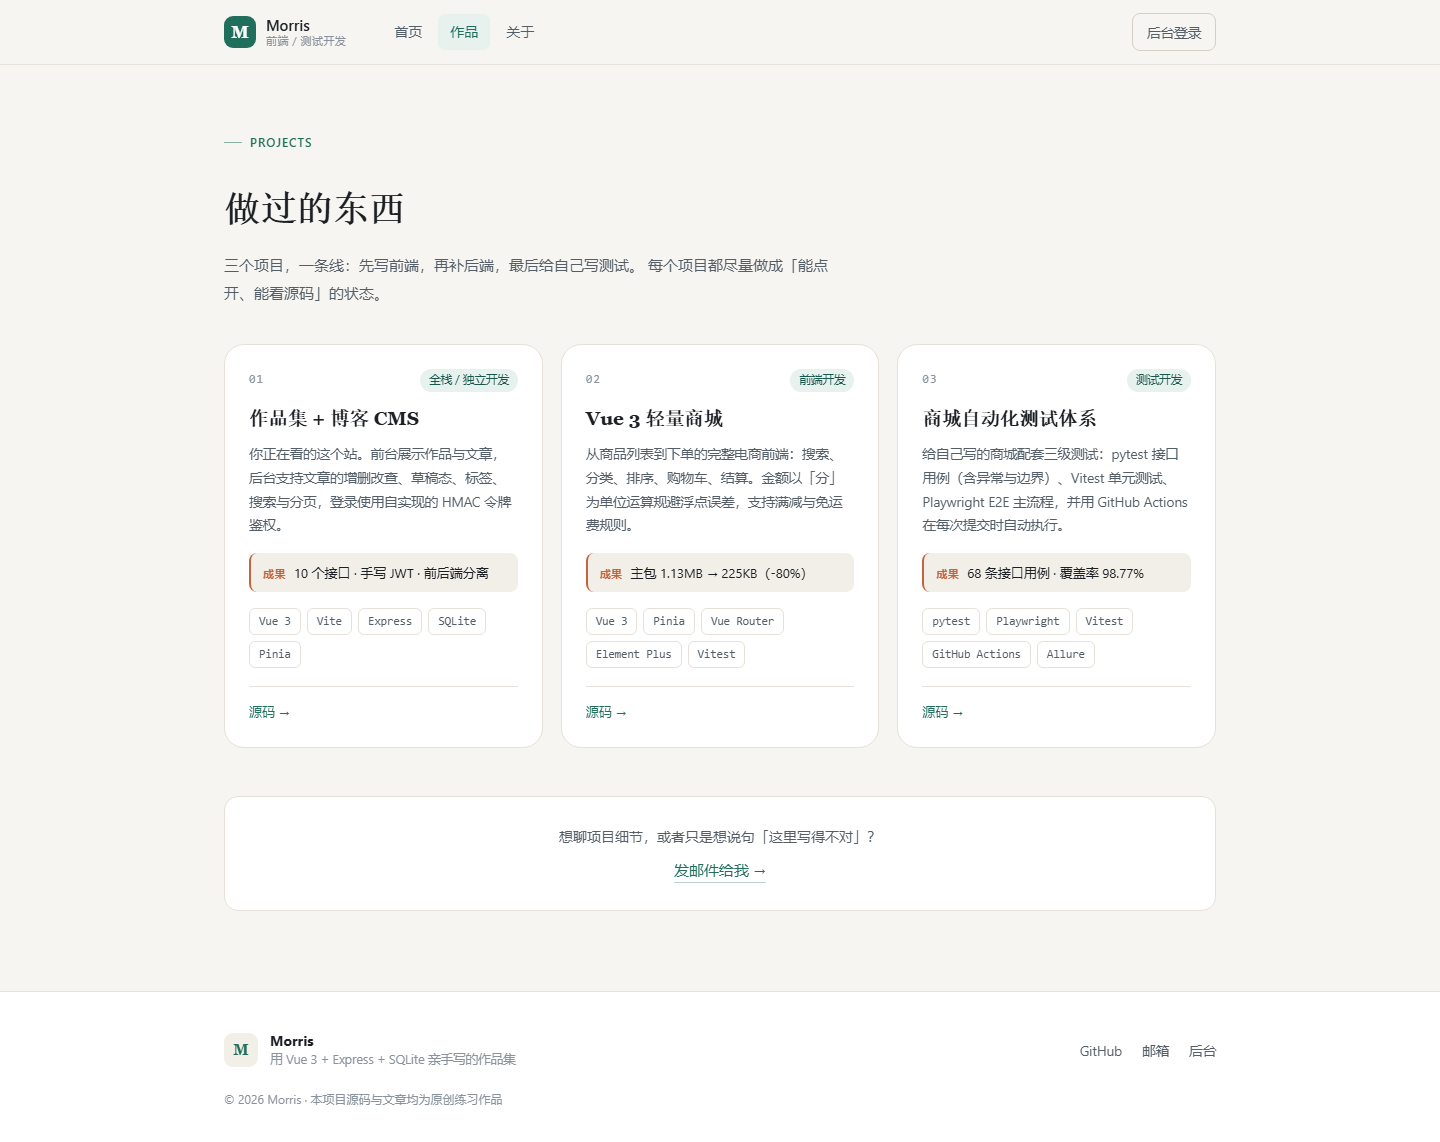
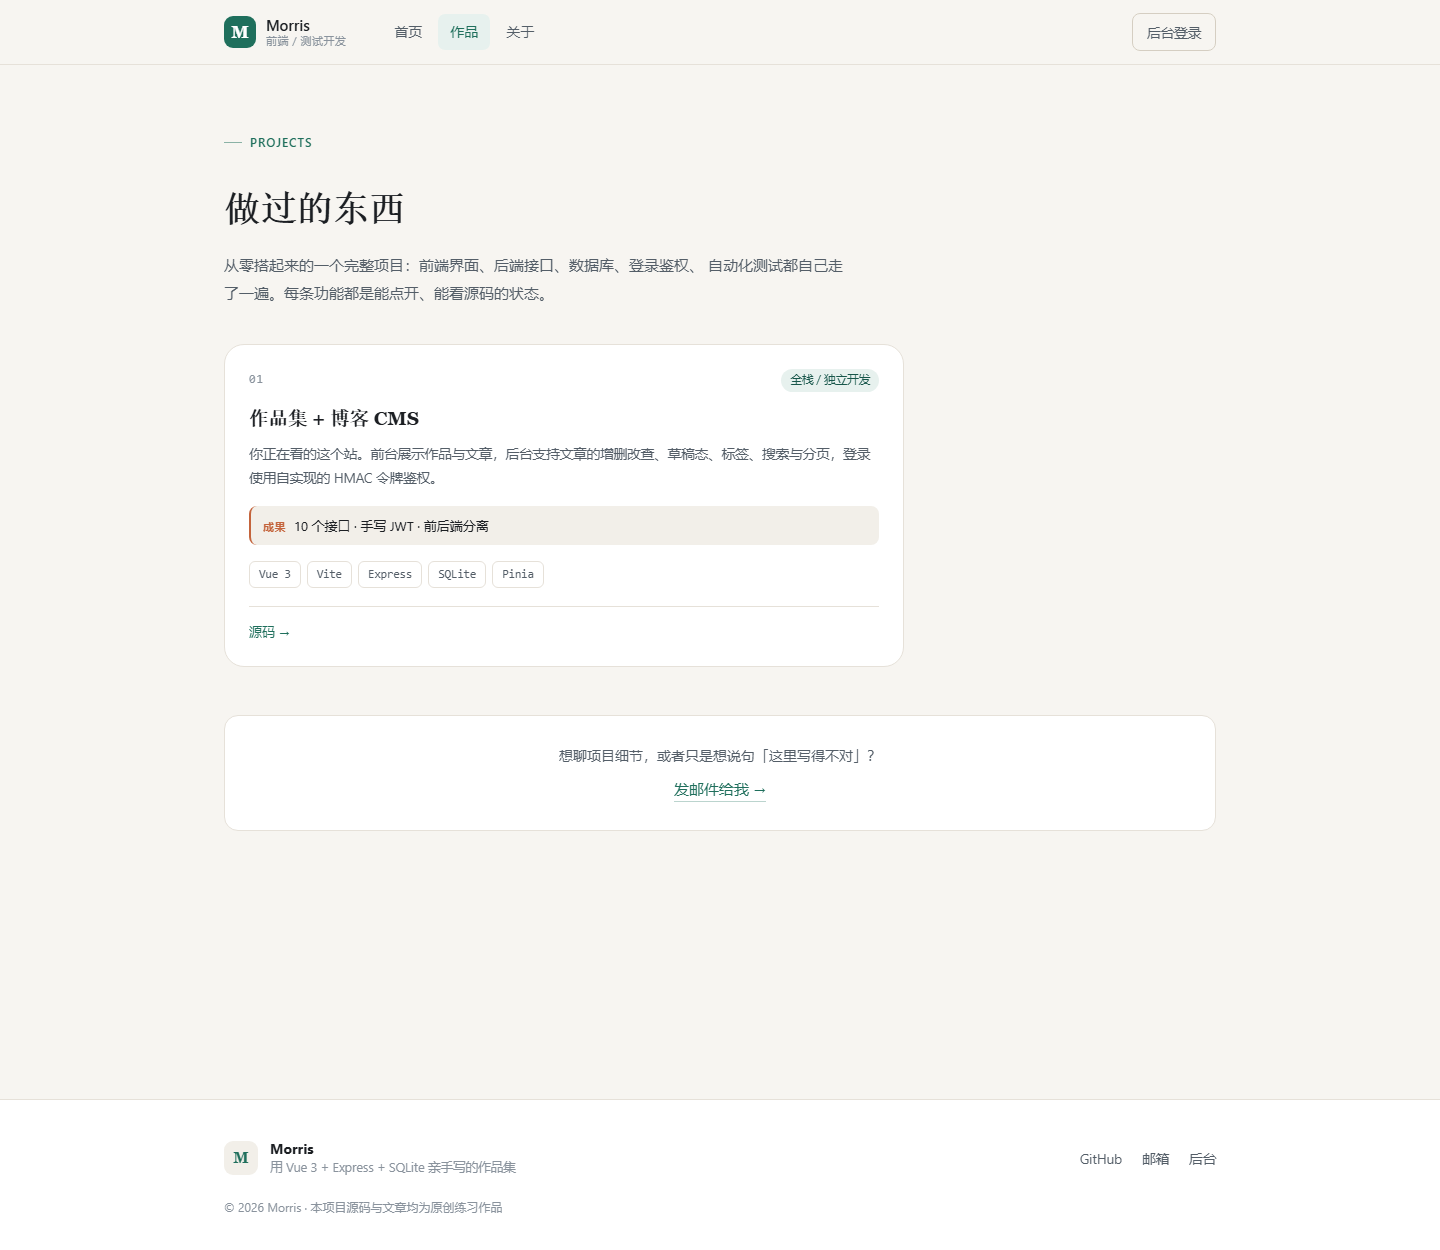
作品集只保留本站一个项目
- content/projects.json 移除「Vue 3 轻量商城」「商城自动化测试体系」
- 作品页/首页只剩一张卡时收窄为 680px，不再留三分之二空白
- 首页 Now、技术栈、关于页技能与待办里对应的商城/pytest/Playwright 文案同步清掉
- 单测里作品数量断言从 >=3 改为 >=1
- 更新 README 与截图

diff --git a/frontend/src/views/About.vue b/frontend/src/views/About.vue
@@ -34,7 +34,7 @@
           <li>JavaScript 语言本身：作用域、闭包、原型链</li>
           <li>Vue 3 响应式原理：为什么改了数据视图就变了</li>
           <li>后端：错误处理、事务、索引与查询优化</li>
-          <li>测试：接口用例设计、E2E 稳定性</li>
+          <li>测试：接口用例设计、边界条件</li>
         </ul>
       </div>
 
@@ -53,7 +53,7 @@
             <li><span>前端</span>Vue 3 + Vite</li>
             <li><span>后端</span>Express + SQLite</li>
             <li><span>鉴权</span>手写 HMAC 令牌</li>
-            <li><span>测试</span>36 条接口 + 26 条单测</li>
+            <li><span>测试</span>36 条接口 + 44 条单测</li>
           </ul>
         </div>
       </aside>
@@ -65,7 +65,7 @@
 const skillGroups = [
   { name: '前端', items: ['Vue 3', 'Vite', 'Pinia', 'Vue Router', 'Element Plus', 'Axios', 'CSS'] },
   { name: '后端', items: ['Node.js', 'Express', 'SQLite', 'RESTful', '鉴权'] },
-  { name: '测试', items: ['Vitest', 'pytest', 'Playwright', 'GitHub Actions'] },
+  { name: '测试', items: ['Vitest', '接口测试', '边界用例'] },
   { name: '工具', items: ['Git', 'GitHub', 'VS Code', 'Postman / REST Client'] }
 ];
 </script>

diff --git a/frontend/src/views/Home.vue b/frontend/src/views/Home.vue
@@ -19,7 +19,7 @@
         </div>
 
         <p class="stack">
-          Vue 3 · Vite · Pinia · Express · SQLite · Vitest · pytest
+          Vue 3 · Vite · Pinia · Express · SQLite · Vitest
         </p>
       </div>
 
@@ -29,7 +29,7 @@
         <ul>
           <li>把 JS 和 Vue 的基础补齐</li>
           <li>让这个站从「能跑」到「能讲」</li>
-          <li>给商城项目补 E2E 用例</li>
+          <li>给这个站补更多接口用例</li>
         </ul>
         <span class="now-foot">最近更新 {{ lastUpdated }}</span>
       </aside>
@@ -45,7 +45,7 @@
       <div v-if="projectsLoading" class="grid">
         <el-skeleton v-for="i in 3" :key="i" :rows="4" animated />
       </div>
-      <div v-else class="grid">
+      <div v-else class="grid" :class="{ single: projects.length === 1 }">
         <ProjectCard
           v-for="(p, i) in projects.slice(0, 3)"
           :key="p.id"
@@ -394,6 +394,12 @@ onMounted(async () => {
   display: grid;
   grid-template-columns: repeat(3, minmax(0, 1fr));
   gap: 18px;
+}
+
+/* 只有一个作品时收窄，避免一张卡拉满 1040px */
+.grid.single {
+  grid-template-columns: minmax(0, 1fr);
+  max-width: 680px;
 }
 
 .count {

diff --git a/frontend/src/views/Projects.vue b/frontend/src/views/Projects.vue
@@ -4,8 +4,8 @@
       <p class="eyebrow">Projects</p>
       <h1>做过的东西</h1>
       <p class="sub">
-        三个项目，一条线：先写前端，再补后端，最后给自己写测试。
-        每个项目都尽量做成「能点开、能看源码」的状态。
+        从零搭起来的一个完整项目：前端界面、后端接口、数据库、登录鉴权、
+        自动化测试都自己走了一遍。每条功能都是能点开、能看源码的状态。
       </p>
     </div>
 
@@ -21,7 +21,7 @@
       :closable="false"
     />
 
-    <div v-else class="grid">
+    <div v-else class="grid" :class="{ single: projects.length === 1 }">
       <ProjectCard v-for="(p, i) in projects" :key="p.id" :project="p" :index="i" />
     </div>
 
@@ -82,6 +82,13 @@ onMounted(async () => {
   display: grid;
   grid-template-columns: repeat(3, minmax(0, 1fr));
   gap: 18px;
+}
+
+/* 只有一个作品时不要拉满整行，收窄一点更像「一张卡」 */
+.grid.single {
+  grid-template-columns: minmax(0, 1fr);
+  max-width: 680px;
+  gap: 22px;
 }
 
 .cta {

diff --git a/backend/test/api.test.js b/backend/test/api.test.js
@@ -362,7 +362,7 @@ test('GET /api/tags 返回标签及文章数', async () => {
 test('GET /api/projects 公开可读', async () => {
   const { status, data } = await api('/api/projects');
   assert.equal(status, 200);
-  assert.ok(data.length >= 3);
+  assert.ok(data.length >= 1);
   assert.ok(data[0].title);
 });
 

diff --git a/README.md b/README.md
@@ -80,7 +80,7 @@ npm run dev          # http://localhost:5173
 
 打开 <http://localhost:5173> 即可。
 
-首次启动会自动建表并灌入演示数据（6 篇文章 + 3 个作品 + 管理员账号），
+首次启动会自动建表并灌入演示数据（6 篇文章 + 1 个作品 + 管理员账号），
 已有数据时不会重复插入。想从空库开始：删掉 `backend/data.db` 再启动。
 
 **默认账号**：`admin` / `admin123`
